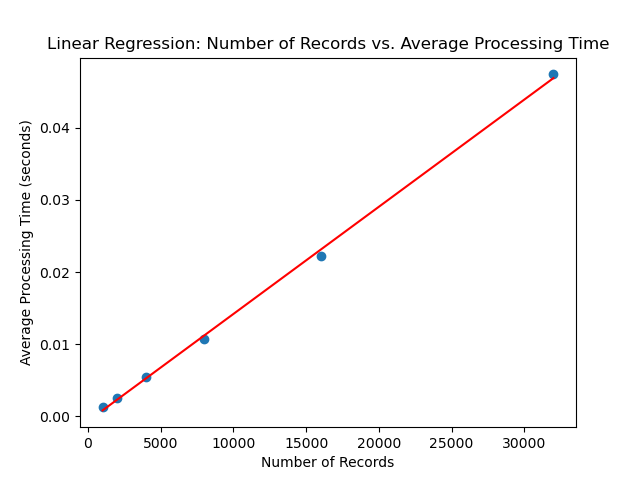
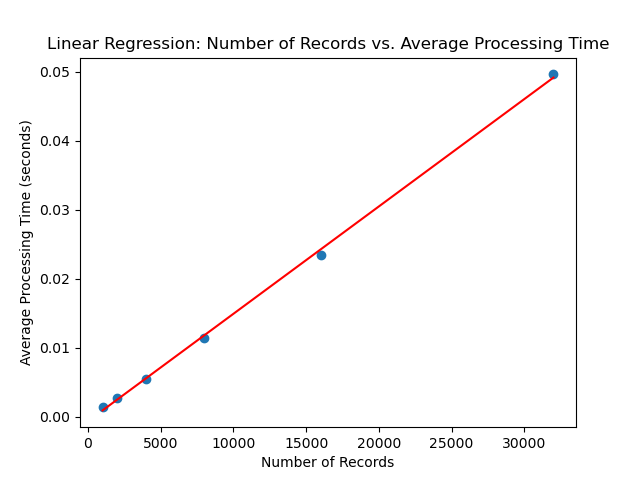
graphs for ex is good now

diff --git a/ex5.py b/ex5.py
@@ -68,10 +68,10 @@ plt.savefig('output.3.2.png')
 #Produce a linear regression plot
 plt.clf()
 def logs(x,a,b):
-    return np.log(x * a) + b
+    return a*np.log(x) + b
 constants = curve_fit(logs, sizes, avg_Binary)
 plt.scatter(sizes, avg_Binary)
-linevalues = [constants[0][0] * x + constants[0][1] for x in vector_sizes]
+linevalues = [constants[0][0] * np.log(x) + constants[0][1] for x in vector_sizes]
 plt.plot(vector_sizes, linevalues, 'r')
 
 # Save the plot to a file named output.3.2.png

diff --git a/ex4.md b/ex4.md
@@ -1,4 +1,4 @@
- 1. I would make it so if you are looking for a room <= 130 turn left. Then if it's greater turn right.
+ 1. I would make it so if you are looking for a room <= 130 turn left. Which then you will be searching from room EY100. Then if it's greater turn right. You would be starting from EY138 and reverse searching. Then do a linear search of each room until you find the selected room.
 
  2. It would take 28 steps because each step is passing a room.
 
